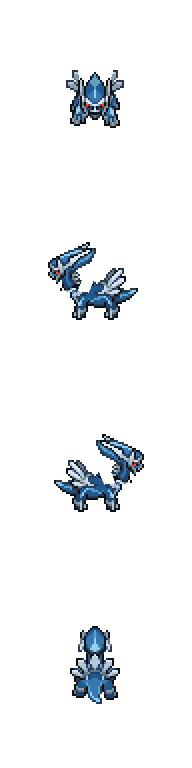
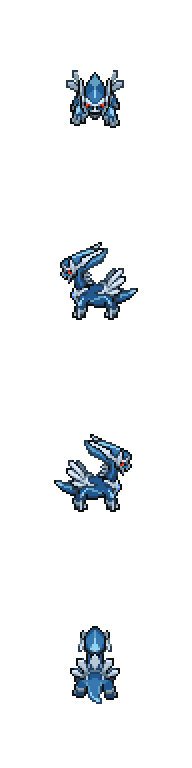
Add shiny Palkia box and restore Dialga side anatomy

Changed region(s): [[0.4375, 0.5625, 0.75, 0.6562], [0.25, 0.3125, 0.5625, 0.4062]]

diff --git a/tools/build_land_mount_collection.py b/tools/build_land_mount_collection.py
@@ -9,9 +9,9 @@ import json
 from PIL import Image, ImageDraw
 
 ROOT = Path(__file__).resolve().parents[1]
-BASE_IDS = ('giratina_origin', 'ho_oh', 'yveltal', 'miraidon', 'reshiram', 'metagross', 'salamence', 'zekrom')
+BASE_IDS = ('giratina_origin', 'ho_oh', 'yveltal', 'miraidon', 'reshiram', 'metagross', 'salamence', 'zekrom', 'palkia')
 SPECIAL_VARIANTS = {'metagross_black_gold': 'metagross'}
-GRANT_ONLY_IDS = ('dialga', 'palkia')
+GRANT_ONLY_IDS = ('dialga',)
 IDS = BASE_IDS + tuple(mid + '_shiny' for mid in BASE_IDS) + tuple(SPECIAL_VARIANTS) + GRANT_ONLY_IDS
 DIRECTIONS = ('down', 'left', 'right', 'up')
 FRAME = 192

diff --git a/docs/mounts/dialga_zekrom_palkia.md b/docs/mounts/dialga_zekrom_palkia.md
@@ -6,12 +6,14 @@
 | Zekrom | `zekrom-mount` |
 | Shiny Zekrom | `shiny-zekrom-mount` |
 | Palkia | `palkia-mount` |
+| Shiny Palkia | `shiny-palkia-mount` |
 
 These mounts can be granted through existing administration/reward
 tooling. Ownership unlocks the corresponding Land selector entry; the current
-region's Mount License remains required. Dialga and Palkia remain grant-only.
-Zekrom has a Land Gift Store box for 750 Aether Gems or eligible Gift Voucher
-credits. It grants a normal or shiny Zekrom using the shared 50/60/70/80 pity
+region's Mount License remains required. Dialga remains grant-only.
+Zekrom and Palkia each have a Land Gift Store box for 750 Aether Gems or
+eligible Gift Voucher credits. Each grants the corresponding normal or shiny
+mount using the shared 50/60/70/80 pity
 rules; the short description shows the mount and 50% base chance.
 Suicune is deferred.
 
@@ -22,10 +24,10 @@ Source sheets and reproducible design specifications are checked in.
 
 Dialga's front head is lowered 24 source pixels with its full crest/horns
 preserved. Its relocated head alpha is explicitly included in the foreground;
-the side head remains complete and now sits 12 source pixels farther forward
-to keep the long crest clear of the rider’s face. Palkia's side rider sits above
-the shoulder
-armor, with the rear tail in front only below the torso. Zekrom keeps the rider
+the side head and neck now retain their exact original pixels and connection.
+The side rider sits ten source pixels farther back on the saddle, keeping the
+face clear of the crest without moving or cutting the head. Palkia's side rider
+sits above the shoulder armor, with the rear tail in front only below the torso. Zekrom keeps the rider
 between the wings and uses six pixels of visual hover. Dialga and Palkia do not
 hover. Their complete mount/rider artwork is 16 pixels lower than the first
 integration, matching the normal walking/Cobalion/Glaceon ground line. The
@@ -44,3 +46,10 @@ Render the actual game rig with `tools/preview_land_mount_collection.gd` and
 Shiny Zekrom uses the matching shiny follower palette (green-tinted dark body
 and green highlights), with identical source alpha, rider offsets and masks.
 Render it with `--mounts=zekrom --shiny`.
+
+Shiny Palkia uses the matching pink shiny follower palette and shares the
+approved normal ground position, seats, silhouette and masks exactly. Render
+with `--mounts=palkia --shiny`.
+
+Use `--adinho` to additionally check the male Adinho hair, beard, glasses and
+outfit on the game rig; the female preview retains its default appearance.

diff --git a/CHANGELOG.md b/CHANGELOG.md
@@ -2,6 +2,9 @@
 
 ## Unreleased
 
+- Add Shiny Palkia and its Land Gift Store box for 750 Aether Gems with the existing shiny chance and pity rules.
+- Restore Dialga’s original side head/neck connection and move the rider back on the saddle to keep the face clear.
+
 - Add Shiny Zekrom and its Land Gift Store box for 750 Aether Gems with the existing shiny chance and pity rules.
 - Align Dialga and Palkia with the normal ground line and move Dialga’s side crest clear of the rider’s face.
 
